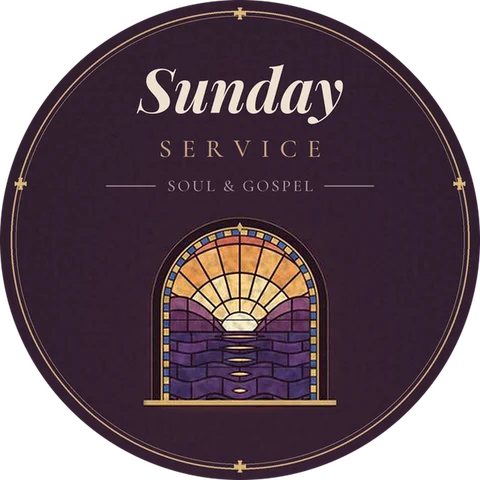
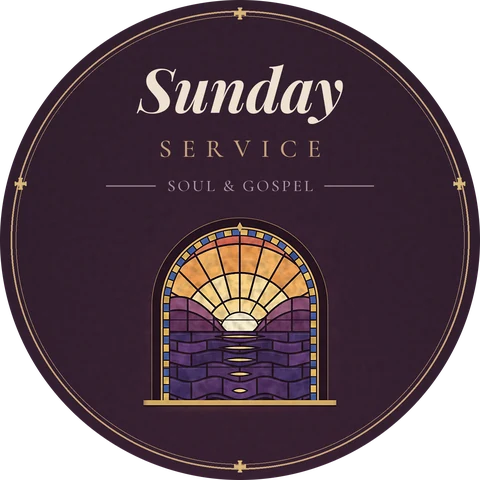
Vinilo: portadas redondas rehechas desde los originales a resolución completa
Claude-Session: https://claude.ai/code/session_016k35bzsaVrxmGnMwsVbJwM

diff --git a/vinilo/index.html b/vinilo/index.html
@@ -360,7 +360,7 @@ const esc = s => s.replace(/[&<>"]/g, c => ({ "&": "&amp;", "<": "&lt;", ">": "&
 // Plato: reloj de 24 horas con cada lista en su hora; en el centro gira la que toca ahora
 // Zoom de cada portada al recortarla en círculo: lo justo para que no asome su marco sin cortar el título
 const ZOOM = { heavy: 1.07, understatement: 1.04, reading: 1.08, amalfi: 1.09, riviera: 1.08, afterdark: 1.07, gentleman: 1.04, sunday: 1.07, slowroll: 1.03, postcards: 1.09, sobremesa: 1.08, openbar: 1.12 };
-const RED = id => "redondas/" + id + ".webp?v=4";   // versiones redondas de las portadas, hechas para el disco
+const RED = id => "redondas/" + id + ".webp?v=5";   // versiones redondas de las portadas, hechas para el disco
 const HORA = { afterdark: 3, heavy: 6.75, understatement: 8.5, reading: 10.5, sunday: 12.5, amalfi: 14.5, sobremesa: 16.25, slowroll: 18, riviera: 19.75, postcards: 21.25, gentleman: 22.75, openbar: 0.75 };
 const fmtH = h => String(Math.floor(h)).padStart(2, "0") + ":" + String(Math.round((h % 1) * 60)).padStart(2, "0");
 function tocaAhora(d){
